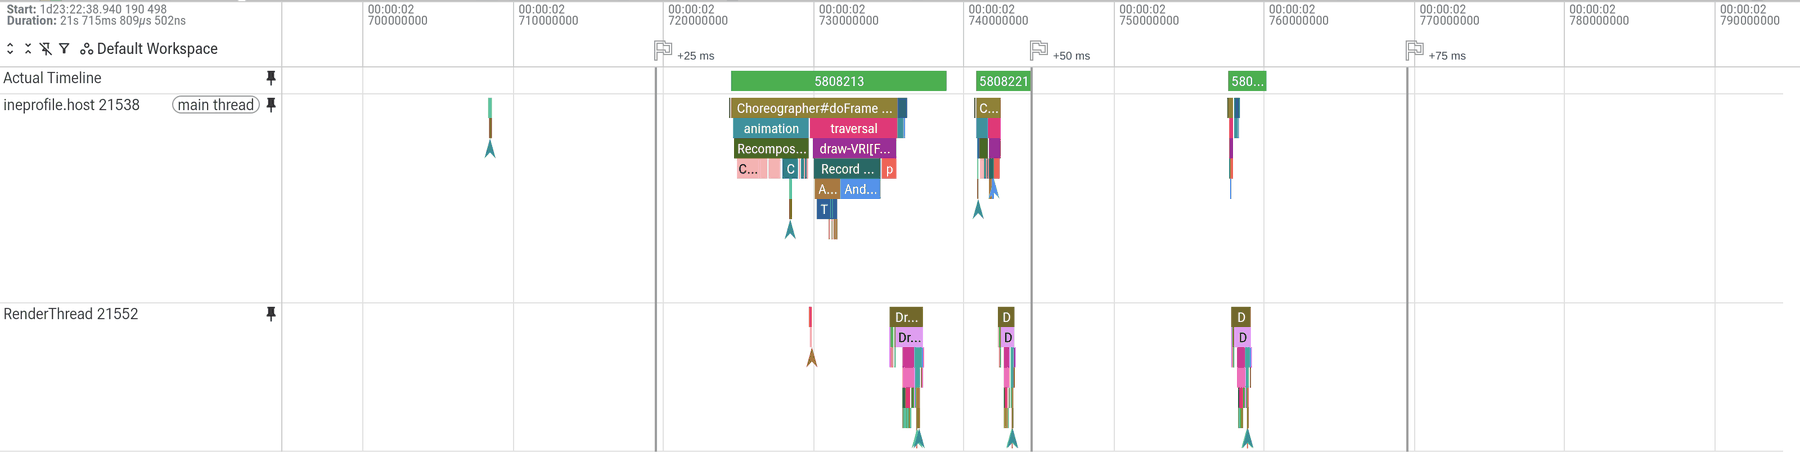
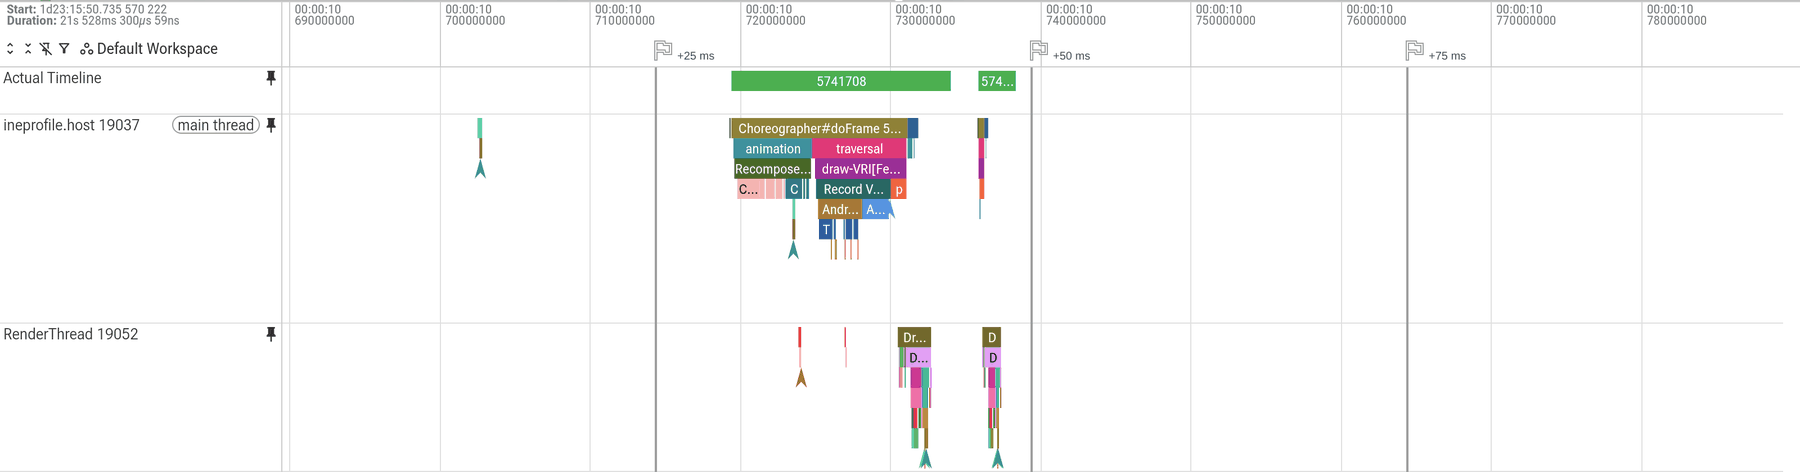
docs(benchmarks): the animated screenshots pair the lanes that do the same work

diff --git a/livery-baselineprofile/traces/screenshots.py b/livery-baselineprofile/traces/screenshots.py
@@ -69,7 +69,7 @@ SCENARIOS = {
     "feed": ("Feed fling", ("FeedScrollBenchmark_composeUi", "FeedScrollBenchmark_livery"), "frames", "cost", "mid"),
     "scrolling": ("Lazy feed, next 8 cards prepared ahead", ("FeedScrollBenchmark_composeUi", "FeedScrollBenchmark_liveryLazyAhead"), "frames", "cost", "mid"),
     "change": ("Changing a document's data", ("DocumentBenchmark_composeUiChange", "DocumentBenchmark_liveryChange"), "frames", "cost", "mid"),
-    "animated": ("Animated feed: the longest frame", ("FeedScrollBenchmark_composeUiAnimated", "FeedScrollBenchmark_liveryAnimated"), "frames", "peakcost", "peak"),
+    "animated": ("Animated feed (bars land at once): the longest frame", ("FeedScrollBenchmark_composeUiAnimatedNoEase", "FeedScrollBenchmark_liveryAnimated"), "frames", "peakcost", "peak"),
 }
 
 

diff --git a/site/pages/benchmarks.md b/site/pages/benchmarks.md
@@ -118,7 +118,7 @@ in pairs doing the same visible work.
 median and p90 are at or under the twin's, and the p99 (18 ms, with missed frames) is that frame: all the visible cards' new
 values compose in one frame, where the twin's worst frames stay near 12 ms. In the trace, 13 frames of a run are over 12 ms
 (the longest 20 ms), each with about 10 ms of recomposition and about 6 ms of drawing, where the twin has none over 12 ms.
-The longest frame of the run, the twin above and Livery below, 100 ms:
+The longest frame of the run with the bars landing at once, the twin above and Livery below, 100 ms:
 
 <a href="assets/benchmarks/perfetto-animated-compose-ui.png"><img src="assets/benchmarks/perfetto-animated-compose-ui.png" alt="Perfetto UI: the Compose UI twin, the longest frame of the animated feed" style="max-width:100%;height:auto;border:1px solid #8884"></a>
 
